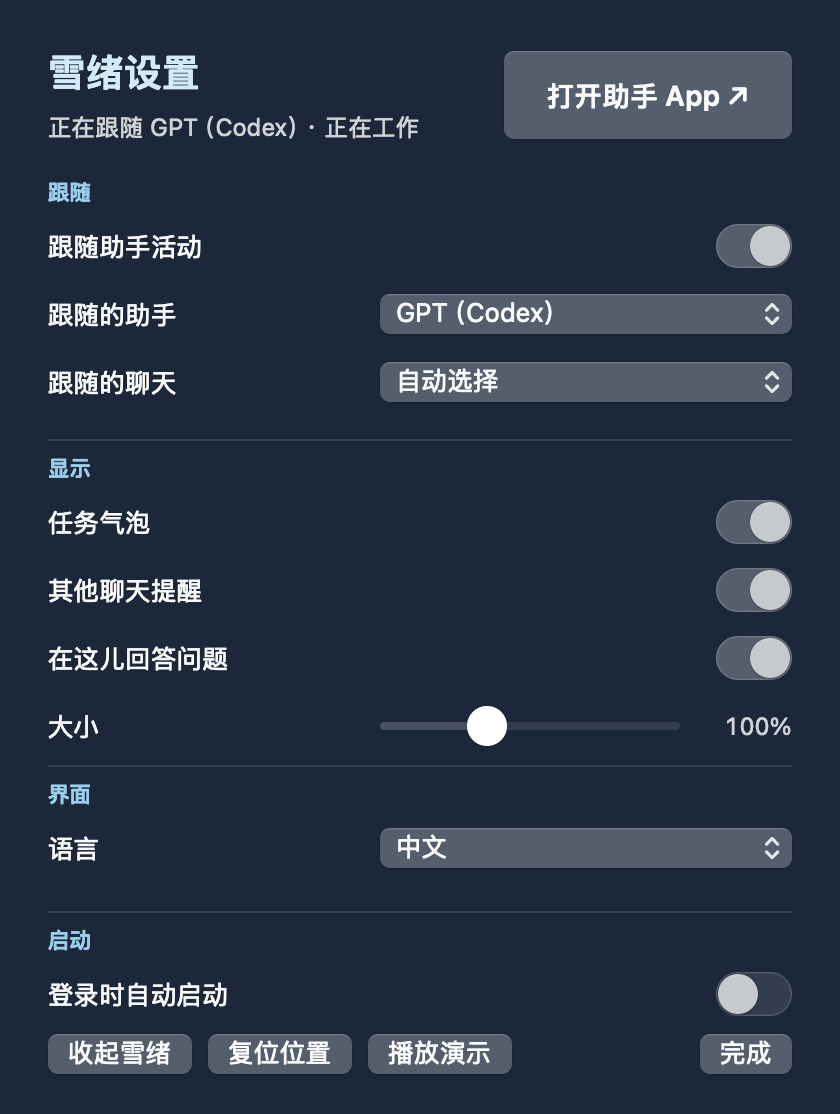
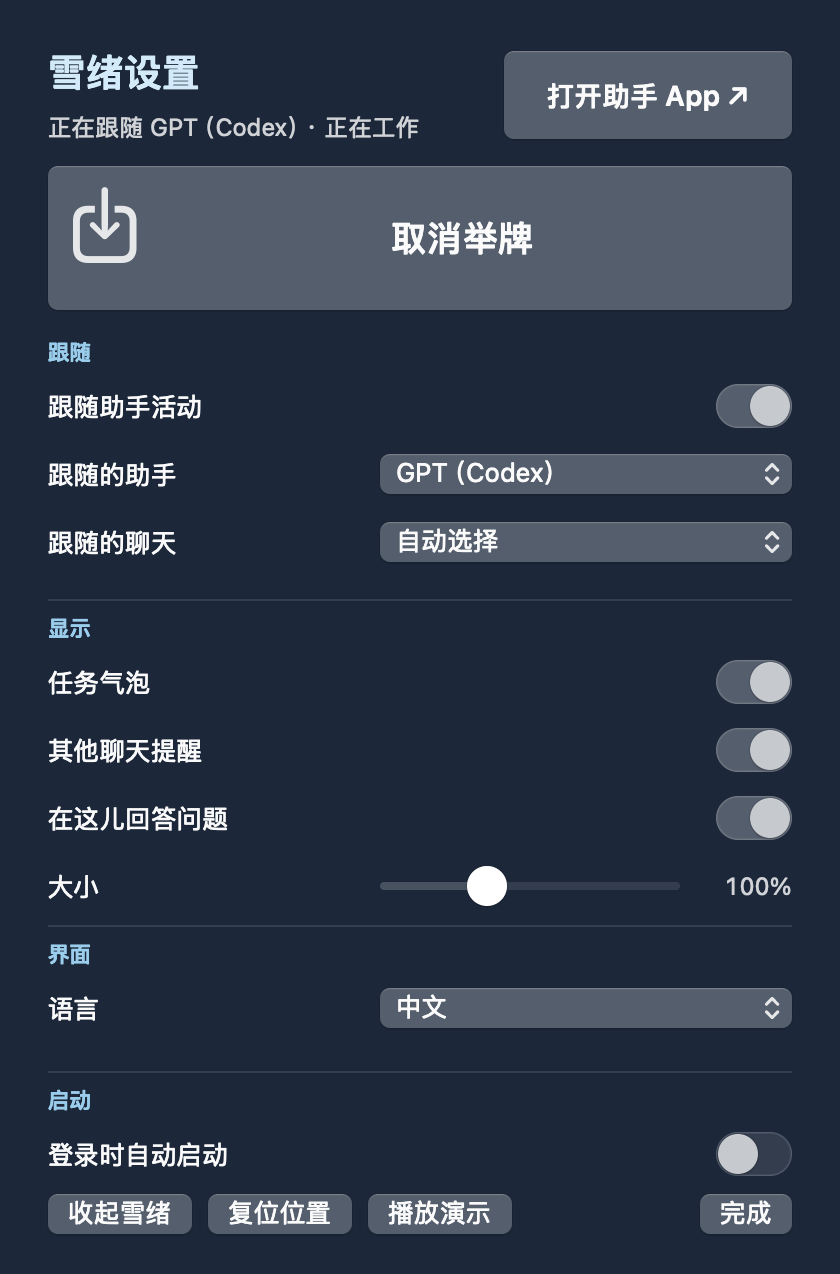
Add prominent lower-sign settings button on macOS and Windows for v0.3.3

diff --git a/YukioPlayer/Sources/YukioPlayer/SettingsPanel.swift b/YukioPlayer/Sources/YukioPlayer/SettingsPanel.swift
@@ -1,7 +1,7 @@
 import AppKit
 import YukioCore
 
-/// 设置面板只放文字与系统控件。没有角色图、头像、装饰图，也不自绘图标。
+/// 设置面板使用文字、系统控件和醒目的取消举牌图标。
 struct SettingsSnapshot {
     let status: String
     let following: Bool
@@ -32,6 +32,7 @@ enum SettingsChange {
     case resetPosition
     case toggleDemo
     case openAssistant
+    case lowerSign
 }
 
 final class SettingsPanelController: NSWindowController, NSWindowDelegate, NSMenuDelegate {
@@ -70,6 +71,7 @@ final class SettingsPanelController: NSWindowController, NSWindowDelegate, NSMen
     private let demoButton = NSButton()
     private let doneButton = NSButton()
     private let openAssistantButton = NSButton()
+    private let lowerSignButton = NSButton()
 
     private let followingHeading = NSTextField(labelWithString: "")
     private let displayHeading = NSTextField(labelWithString: "")
@@ -81,7 +83,7 @@ final class SettingsPanelController: NSWindowController, NSWindowDelegate, NSMen
 
     init() {
         let panel = NSPanel(
-            contentRect: NSRect(x: 0, y: 0, width: 420, height: 570),
+            contentRect: NSRect(x: 0, y: 0, width: 420, height: 656),
             styleMask: [.titled, .closable, .nonactivatingPanel],
             backing: .buffered,
             defer: false
@@ -128,7 +130,7 @@ final class SettingsPanelController: NSWindowController, NSWindowDelegate, NSMen
         let needsApproval = snapshot.launchAtLogin == .requiresApproval
         startupHint.isHidden = !needsApproval
         loginItemsButton.isHidden = !needsApproval
-        let contentSize = NSSize(width: 420, height: needsApproval ? 630 : 570)
+        let contentSize = NSSize(width: 420, height: needsApproval ? 716 : 656)
         if window?.contentView?.frame.size != contentSize {
             window?.setContentSize(contentSize)
         }
@@ -217,7 +219,11 @@ final class SettingsPanelController: NSWindowController, NSWindowDelegate, NSMen
         openAssistantButton.widthAnchor.constraint(equalToConstant: 144).isActive = true
         openAssistantButton.heightAnchor.constraint(equalToConstant: 44).isActive = true
         stack.addArrangedSubview(header)
-        stack.setCustomSpacing(18, after: header)
+        stack.setCustomSpacing(12, after: header)
+        lowerSignButton.widthAnchor.constraint(equalToConstant: 372).isActive = true
+        lowerSignButton.heightAnchor.constraint(equalToConstant: 72).isActive = true
+        stack.addArrangedSubview(lowerSignButton)
+        stack.setCustomSpacing(14, after: lowerSignButton)
 
         stack.addArrangedSubview(followingHeading)
         stack.addArrangedSubview(row(title: followTitle, control: followSwitch))
@@ -267,6 +273,17 @@ final class SettingsPanelController: NSWindowController, NSWindowDelegate, NSMen
     }
 
     private func configureActions() {
+        lowerSignButton.bezelStyle = .regularSquare
+        lowerSignButton.bezelColor = NSColor(calibratedRed: 0.18, green: 0.43, blue: 0.54, alpha: 1)
+        lowerSignButton.contentTintColor = .white
+        lowerSignButton.font = .systemFont(ofSize: 18, weight: .semibold)
+        lowerSignButton.image = NSImage(systemSymbolName: "square.and.arrow.down", accessibilityDescription: nil)?
+            .withSymbolConfiguration(.init(pointSize: 36, weight: .medium))
+        lowerSignButton.imagePosition = .imageLeading
+        lowerSignButton.imageScaling = .scaleNone
+        lowerSignButton.target = self
+        lowerSignButton.action = #selector(lowerSign)
+        lowerSignButton.setAccessibilityIdentifier("lowerSignButton")
         openAssistantButton.bezelStyle = .regularSquare
         openAssistantButton.bezelColor = NSColor(calibratedRed: 0.18, green: 0.43, blue: 0.54, alpha: 1)
         openAssistantButton.contentTintColor = .white
@@ -359,6 +376,9 @@ final class SettingsPanelController: NSWindowController, NSWindowDelegate, NSMen
         languageTitle.stringValue = tr("Language", "语言")
         resetButton.title = tr("Reset position", "复位位置")
         doneButton.title = tr("Done", "完成")
+        lowerSignButton.title = tr("Lower sign", "取消举牌")
+        lowerSignButton.toolTip = tr("Lower the current completion sign without opening the chat.", "放下当前完成牌，不打开聊天。")
+        lowerSignButton.setAccessibilityLabel(lowerSignButton.title)
         openAssistantButton.title = tr("Open App ↗", "打开助手 App ↗")
         openAssistantButton.toolTip = tr("Open the full assistant window", "切换到完整的助手 App 页面")
 
@@ -471,6 +491,7 @@ final class SettingsPanelController: NSWindowController, NSWindowDelegate, NSMen
     @objc private func toggleHidden() { onChange?(.toggleHidden) }
     @objc private func resetPosition() { onChange?(.resetPosition) }
     @objc private func toggleDemo() { onChange?(.toggleDemo) }
+    @objc private func lowerSign() { onChange?(.lowerSign) }
     @objc private func openAssistant() { onChange?(.openAssistant) }
     @objc private func closePanel() { close() }
 }

diff --git a/YukioPlayer/Tests/YukioPlayerTests/LowerSignSettingsTests.swift b/YukioPlayer/Tests/YukioPlayerTests/LowerSignSettingsTests.swift
@@ -1,0 +1,30 @@
+import AppKit
+import Testing
+@testable import YukioPlayer
+
+@Suite @MainActor struct LowerSignSettingsTests {
+    @Test func largeIconButtonEmitsOnlyLowerSign() throws {
+        _ = NSApplication.shared
+        let controller = SettingsPanelController()
+        defer { controller.close() }
+        func find(_ view: NSView) -> NSButton? {
+            if let button = view as? NSButton, button.accessibilityIdentifier() == "lowerSignButton" { return button }
+            return view.subviews.compactMap { find($0) }.first
+        }
+        let root = try #require(controller.window?.contentView)
+        root.layoutSubtreeIfNeeded()
+        let button = try #require(find(root))
+        #expect(button.image != nil)
+        #expect(button.frame.height >= 64)
+        var lowerCount = 0
+        var otherCount = 0
+        controller.onChange = { change in
+            if case .lowerSign = change { lowerCount += 1 }
+            else { otherCount += 1 }
+        }
+        button.performClick(nil)
+        button.performClick(nil)
+        #expect(lowerCount == 2)
+        #expect(otherCount == 0)
+    }
+}

diff --git a/YukioPlayer/Sources/YukioPlayer/main.swift b/YukioPlayer/Sources/YukioPlayer/main.swift
@@ -1890,6 +1890,8 @@ final class AppController: NSObject, NSApplicationDelegate, NSMenuDelegate {
             resetPetPosition()
         case .toggleDemo:
             simulation == nil ? startDemo() : stopDemo()
+        case .lowerSign:
+            menuDropSign()
         case .openAssistant:
             settingsWindow?.close()
             showAssistant()
@@ -1973,7 +1975,13 @@ final class AppController: NSObject, NSApplicationDelegate, NSMenuDelegate {
     }
 
     @objc private func menuOpenChat() { petClicked() }
-    @objc private func menuDropSign() { router.dismissCompletion(now: nowMs()) }
+    @objc private func menuDropSign() {
+        let now = nowMs()
+        if let sim = simulation { sim.router.dismissCompletion(now: now) }
+        else { router.dismissCompletion(now: now) }
+        updateBubble(now: now)
+        updateCards(now: now, immediate: true)
+    }
     /// 空的 representedObject 表示“自动”。
     @objc private func menuPickChat(_ sender: NSMenuItem) {
         let id = sender.representedObject as? String

diff --git a/YukioWin/yukio/pet_settings.py b/YukioWin/yukio/pet_settings.py
@@ -9,8 +9,8 @@ class PetSettingsWindow:
         self.assistant, self.app = assistant, assistant.app
         self.window = tk.Toplevel(assistant.root)
         self.window.withdraw()
-        self.window.geometry('420x570')
-        self.window.minsize(420, 480)
+        self.window.geometry('420x656')
+        self.window.minsize(420, 656)
         self.window.attributes('-topmost', True)
         self.window.protocol('WM_DELETE_WINDOW', self.window.withdraw)
         self.body = ttk.Frame(self.window, padding=18)
@@ -36,6 +36,7 @@ class PetSettingsWindow:
         ttk.Label(head, text='Yukio', font=('Segoe UI', 19)).pack(side='left')
         self.open_button = ttk.Button(head, text=tr('Open App ↗', '打开助手 App ↗'), command=self.open_assistant)
         self.open_button.pack(side='right', ipady=8)
+        self.lower_sign_button = lower_sign_button(self.body, self.app._drop_sign)
         for key, en, zh, action in [
             ('petVisible','Show Yukio','显示雪绪',lambda v:self.app.set_hidden(not v)),
             ('follow','Follow AI activity','跟随 AI 活动',lambda v:self.app.settings.set('follow',v)),
@@ -84,3 +85,22 @@ class PetSettingsWindow:
     def open_assistant(self):
         self.window.withdraw()
         self.assistant.present()
+
+
+def lower_sign_button(parent, command):
+    # Draw the same card/down-arrow icon at an ample size on every Windows font.
+    icon = tk.PhotoImage(master=parent, width=48, height=48)
+    for x, y, width, height in [(7, 4, 27, 3), (7, 4, 3, 29), (31, 4, 3, 17),
+                                (7, 30, 14, 3), (29, 23, 3, 19)]:
+        icon.put('#ffffff', to=(x, y, x+width, y+height))
+    for i in range(10):
+        icon.put('#ffffff', to=(20+i, 32+i, 23+i, 35+i))
+        icon.put('#ffffff', to=(38-i, 32+i, 41-i, 35+i))
+    button = tk.Button(parent, text=tr('Lower sign', '取消举牌'), image=icon,
+                       compound='left', font=('Segoe UI', 18, 'bold'),
+                       background='#2e6e8a', foreground='white',
+                       activebackground='#245970', activeforeground='white',
+                       relief='flat', cursor='hand2', padx=16, pady=8, command=command)
+    button.icon = icon
+    button.pack(fill='x', pady=(0, 12))
+    return button

diff --git a/YukioWin/yukio/assistant_smoke.py b/YukioWin/yukio/assistant_smoke.py
@@ -60,6 +60,20 @@ def schedule(app, output):
         check(settings.window.winfo_viewable(), "native pet right-click opens settings")
         check(not ui.root.winfo_viewable(), "right-click keeps main window closed")
         check(bool(settings.window.attributes("-topmost")), "settings stay above other apps")
+        from .events import Kind, PetEvent
+        from .app import now_ms
+        t = now_ms()
+        app.router.ingest(PetEvent(t, 'test', 'lower-sign-smoke', Kind.task_start), t)
+        app.router.ingest(PetEvent(t, 'test', 'lower-sign-smoke', Kind.final_answer), t)
+        app.router.ingest(PetEvent(t, 'test', 'lower-sign-smoke', Kind.task_end), t)
+        app.router.settle(t + 10000)
+        check(app.router.completed_session == 'lower-sign-smoke', 'completion sign raised before button')
+        check(settings.lower_sign_button.winfo_height() >= 64, 'lower sign button has large click target')
+        settings.lower_sign_button.invoke()
+        check(app.router.completed_session is None, 'settings button lowers completion sign')
+        check(not ui.root.winfo_viewable(), 'lowering sign keeps assistant closed')
+        settings.lower_sign_button.invoke()
+        check(app.router.completed_session is None, 'lower sign is safe when already lowered')
         settings.startup_button.invoke()
         check(startup_test.status == "enabled", "startup checkbox registers current exe")
         check(startup_test.backend.read() == startup_test.command, "startup command points to packaged exe")

diff --git a/YukioWin/tests/test_app_logic.py b/YukioWin/tests/test_app_logic.py
@@ -287,6 +287,26 @@ class AppLogicTests(unittest.TestCase):
         advance(a, 80)
         self.assertEqual(a.shown_state, PetState.write_file)
 
+    def test_lower_sign_does_not_open_chat_and_next_turn_can_raise_again(self):
+        from yukio.events import Kind, PetEvent
+        a = make_app()
+        fake_win32.OPENED_URLS[:] = []
+        for _ in range(2):
+            t = now()
+            a.router.ingest(PetEvent(t, "test", "S", Kind.task_start), t)
+            advance(a, 30)
+            t = now()
+            a.router.ingest(PetEvent(t, "test", "S", Kind.final_answer), t)
+            a.router.ingest(PetEvent(t, "test", "S", Kind.task_end), t)
+            advance(a, 400)
+            self.assertEqual(a.router.completed_session, "S")
+            a._drop_sign()
+            self.assertIsNone(a.router.completed_session)
+            a._drop_sign()
+            advance(a, 80)
+            self.assertEqual(a.shown_state, PetState.idle)
+        self.assertEqual(fake_win32.OPENED_URLS, [])
+
     def test_clicking_the_raised_sign_opens_that_chat_and_puts_it_down(self):
         from yukio.events import Kind, PetEvent
         a = make_app()

diff --git a/YukioWin/yukio/app.py b/YukioWin/yukio/app.py
@@ -1275,7 +1275,11 @@ class PetApp:
         self._update_question(now_ms(), immediate=True)
 
     def _drop_sign(self) -> None:
-        self.router.dismiss_completion(now_ms())
+        now = now_ms()
+        router = self.demo[3] if self.demo else self.router
+        router.dismiss_completion(now)
+        self._update_bubble(now)
+        self._update_cards(now, immediate=True)
 
     #: 大小的可选范围与步长。macOS 版这里是一条 50%–200% 的滑条；
     #: Win32 的托盘菜单是系统原生弹出菜单，塞不进滑条，所以改成几个整档

diff --git a/YukioWin/yukio/assistant.py b/YukioWin/yukio/assistant.py
@@ -242,6 +242,8 @@ class AssistantWindow:
         self.entries[key] = value
 
     def _settings(self):
+        from .pet_settings import lower_sign_button
+        lower_sign_button(self.body, self.app._drop_sign)
         self.label(self.body, tr("Pet settings", "桌宠设置"), 24)
         self._check(self.body, "petVisible", tr("Show Yukio", "显示雪绪"), lambda v: self.app.set_hidden(not v))
         for key, en, zh in [("follow", "Follow AI activity", "跟随 AI 活动"), ("showBubble", "Show task bubble", "头顶显示任务"),

diff --git a/YukioWin/yukio/__init__.py b/YukioWin/yukio/__init__.py
@@ -1,3 +1,3 @@
 """雪绪桌面播放器 · DeepSeek / Windows 版。"""
 
-__version__ = "0.3.2"
+__version__ = "0.3.3"

diff --git a/README.md b/README.md
@@ -21,7 +21,7 @@
 
 She follows three families of agent, and you pick which one in her menu under **Assistant**: **Claude Code**, **DeepSeek's [Deep Code CLI](https://api-docs.deepseek.com/quick_start/agent_integrations/deepcode/)**, and **GPT's [Codex](https://developers.openai.com/codex/)** (the desktop app and the CLI both write the same session logs). The default, **Auto**, follows all three at once and shows whichever chat has something to say. Both builds use native windows and work entirely from local session logs.
 
-## New in 0.3.2
+## New in 0.3.3
 
 - Right-click opens a compact settings window above other apps; **Open App ↗** leads to the full assistant.
 - Opt-in **Launch at login** on macOS and Windows, with actual system status and error reporting. See [startup guide](docs/STARTUP.md).
@@ -49,8 +49,8 @@ Grab the file for your system from the [latest release](https://github.com/leozh
 
 | You use | Download | Then |
 | --- | --- | --- |
-| macOS 13 or newer (Apple silicon and Intel) | [Yukio-0.3.2-macOS.zip](https://github.com/leozhang8654/yukio-desktop-pet/releases/download/v0.3.2/Yukio-0.3.2-macOS.zip) | Unzip, drag `Yukio.app` into Applications, allow it once (below) |
-| Windows 10 / 11, 64-bit | [Yukio-0.3.2-Windows.exe](https://github.com/leozhang8654/yukio-desktop-pet/releases/download/v0.3.2/Yukio-0.3.2-Windows.exe) | Double-click. Python and the artwork are packed inside |
+| macOS 13 or newer (Apple silicon and Intel) | [Yukio-0.3.3-macOS.zip](https://github.com/leozhang8654/yukio-desktop-pet/releases/download/v0.3.3/Yukio-0.3.3-macOS.zip) | Unzip, drag `Yukio.app` into Applications, allow it once (below) |
+| Windows 10 / 11, 64-bit | [Yukio-0.3.3-Windows.exe](https://github.com/leozhang8654/yukio-desktop-pet/releases/download/v0.3.3/Yukio-0.3.3-Windows.exe) | Double-click. Python and the artwork are packed inside |
 
 <details>
 <summary><b>macOS says "Apple could not verify Yukio…"</b></summary>
@@ -185,3 +185,5 @@ Both players have window-less modes for poking around: `--demo`, `--replay sessi
 Each state uses approved artwork and corrected SAM 2.1 component masks. The head and neck stay fixed, while hands, attached props, reading gaze and independent eyelids retain their reviewed animation. The production generator reuses the existing 2x sources directly; see [animation inputs and workflow](sources/approved-animation-rig/README.md).
 
 If Yukio makes your day at the keyboard a little nicer, a ⭐ helps other people find her.
+
+Settings now includes a large **Lower sign** icon button. It lowers the current completion sign without opening the chat; later completed turns can raise the sign again.

diff --git a/YukioPlayer/README.md b/YukioPlayer/README.md
@@ -6,7 +6,7 @@ One Yukio (雪绪) who changes what she is doing based on what your coding agent
 With several chats open at once, whichever one has just finished or is waiting for your decision is shown first; the other chats that have something to say stack above the bubble as cards of the same design, and clicking one takes you to that chat. You can also pin one chat in the menu so she follows only that one. Every motion moves gently and continuously (writing, typing, moving her eyes, blinking), and the small bubble over her head shows the big task, the current task, and progress.
 Native Swift / AppKit. It needs only the Xcode Command Line Tools and has no third-party dependencies.
 
-## Personal assistant (0.3.2)
+## Personal assistant (0.3.3)
 
 The main window includes Home, Reminders, Personalization and planned Extensions. One-time reminders support editing, deletion, five-minute snooze and completion. Data is stored locally; the clock keeps running when the window closes, and catches up after wake or relaunch. Use `--pet-only` to start with the main window hidden, or `--assistant-only` to start with the pet hidden. See [assistant guide](../docs/ASSISTANT.md).
 
@@ -361,3 +361,5 @@ Claude Code has only nine event names: `PreToolUse`, `PostToolUse`, `Notificatio
 - Once a chat is pinned she no longer switches automatically; when it stops she idles and waits. If you forget you pinned one, the menu's second line "Following: … (pinned)" reminds you.
 - The main loop runs at 30 Hz over the 50 fps animation timeline. Release builds load lossless pages with a 32 MiB page-cache cap; total process memory also includes frames, windows and other resources.
 - The app is ad-hoc signed on this machine; distributing it to others needs a proper signature and notarization.
+
+Settings now includes a large **Lower sign** icon button. It lowers the current completion sign without opening the chat; later completed turns can raise the sign again.
